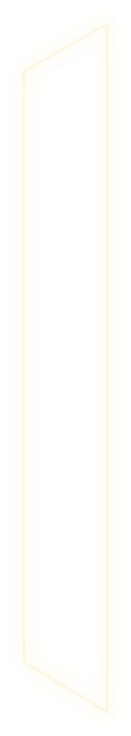
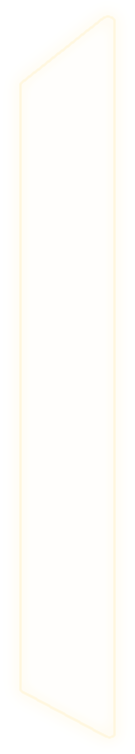
Cell doors 601 and 619: outlines traced on the door frames, top following the black frame edge

diff --git a/game/outlines.js b/game/outlines.js
@@ -1,2 +1,2 @@
 // Viền sáng ôm theo hình từng đồ vật, tách tự động từ ảnh phòng (GrabCut). Tọa độ góc trên trái theo hệ 1920x1080.
-const OUTLINE = {"hall_0":[261,218],"hall_1":[626,167],"hall_2":[1086,218],"hall_3":[1475,82],"hallOffice_0":[698,148],"desk_0":[172,72],"desk2_0":[53,146],"desk2_1":[1029,484],"office_0":[213,713],"office_1":[544,720],"office_2":[1014,714],"office_3":[1322,714],"office_4":[1073,436],"corner_0":[244,66],"corner_1":[969,83],"corner_2":[1139,589],"hallWater_0":[1188,628],"hallKPI_0":[6,62],"hallKPI_1":[840,52],"boss_0":[29,306],"boss_1":[1318,597],"bossRight_0":[700,39],"cellDoor_0":[420,142],"cellDoor_1":[1379,275],"cells_0":[959,98],"cells_1":[737,358],"cells_2":[608,457],"cells_3":[320,523],"hall_4":[1228,166]};
+const OUTLINE = {"hall_0":[261,218],"hall_1":[626,167],"hall_2":[1086,218],"hall_3":[1475,82],"hallOffice_0":[698,148],"desk_0":[172,72],"desk2_0":[53,146],"desk2_1":[1029,484],"office_0":[213,713],"office_1":[544,720],"office_2":[1014,714],"office_3":[1322,714],"office_4":[1073,436],"corner_0":[244,66],"corner_1":[969,83],"corner_2":[1139,589],"hallWater_0":[1188,628],"hallKPI_0":[6,62],"hallKPI_1":[840,52],"boss_0":[29,306],"boss_1":[1318,597],"bossRight_0":[700,39],"cellDoor_0":[420,142],"cellDoor_1":[1379,275],"cells_0":[959,98],"cells_1":[736,344],"cells_2":[609,452],"cells_3":[320,523],"hall_4":[1228,166]};

diff --git a/game/game.js b/game/game.js
@@ -9,7 +9,7 @@ const cv = $('#cv'), ctx = cv.getContext('2d');
 const stage = $('#stage');
 const clamp = (v, a, b) => Math.max(a, Math.min(b, v));
 // ASSET_V: đổi mỗi khi thay ảnh/âm thanh trùng tên, để trình duyệt không dùng lại bản cũ trong cache
-const ASSET_V = '20261110d';
+const ASSET_V = '20261110e';
 const A = p => 'assets/v2/' + p + '?v=' + ASSET_V;
 
 /* ---------------- Stage scaling (sharp on Retina) ---------------- */
@@ -217,8 +217,8 @@ const VIEWS = {
   ], draw: drawCellBars },
   cells: { nav: [AR(493, 779, -120, () => cellAct(603), 'Buồng cuối dãy (603)'), BK('cellDoor')], spots: [
     { x: 985, y: 125, w: 218, h: 955, label: 'Phòng 602', act: () => cellAct(602) },
-    { x: 761, y: 382, w: 83, h: 690, label: 'Phòng 619', act: () => cellAct(619) },
-    { x: 630, y: 450, w: 50, h: 480, label: 'Phòng 601', act: () => cellAct(601) },
+    { x: 760, y: 364, w: 86, h: 714, label: 'Phòng 619', act: () => cellAct(619) },
+    { x: 633, y: 472, w: 50, h: 453, label: 'Phòng 601', act: () => cellAct(601) },
     { x: 340, y: 510, w: 145, h: 390, label: 'Buồng cuối dãy (603)', act: () => cellAct(603) },
   ] },
 };

diff --git a/game/style.css b/game/style.css
@@ -20,9 +20,9 @@ button{font-family:inherit;cursor:pointer}
 /* 3 tấm bảng gỗ nhóm vẽ (source/icon): tiêu đề, 7 ô "?" và thanh nghi ngờ có sẵn trong hình (925x450) */
 #obj,#inv{position:absolute;aspect-ratio:925/450;background:center/100% 100% no-repeat;filter:drop-shadow(5px 6px 0 rgba(0,0,0,.45))}
 #obj .lbl{display:none}
-#obj{left:10px;top:2px;width:330px;background-image:url(assets/v2/ui/hud_obj.png?v=20261110d)}
+#obj{left:10px;top:2px;width:330px;background-image:url(assets/v2/ui/hud_obj.png?v=20261110e)}
 #obj-text{position:absolute;left:15%;right:8%;top:44%;bottom:10%;font-weight:700;font-size:15px;line-height:1.2;color:#2b1d0e;display:flex;align-items:center}
-#inv{left:795px;top:2px;width:330px;background-image:url(assets/v2/ui/hud_inv.png?v=20261110d)}
+#inv{left:795px;top:2px;width:330px;background-image:url(assets/v2/ui/hud_inv.png?v=20261110e)}
 .slot{position:absolute;top:52.44%;width:9.51%;height:19.56%;display:flex;align-items:center;justify-content:center}
 .slot.full{background:#f6e7c1;border:2px solid #4a2c12;border-radius:3px;overflow:hidden}
 .slot img{max-width:88%;max-height:88%;object-fit:contain}

diff --git a/game/index.html b/game/index.html
@@ -25,7 +25,7 @@
 <link rel="preconnect" href="https://fonts.googleapis.com">
 <link rel="preconnect" href="https://fonts.gstatic.com" crossorigin>
 <link href="https://fonts.googleapis.com/css2?family=Be+Vietnam+Pro:wght@400;600;800&family=VT323&display=swap" rel="stylesheet">
-<link rel="stylesheet" href="style.css?v=20261110d">
+<link rel="stylesheet" href="style.css?v=20261110e">
 </head>
 <body>
 <div id="stage">
@@ -61,7 +61,7 @@
   <div id="fade"></div>
   <div id="loading"><div>ĐANG TẢI</div><div id="load-bar"><div id="load-fill"></div></div></div>
 </div>
-<script src="outlines.js?v=20261110d"></script>
-<script src="game.js?v=20261110d"></script>
+<script src="outlines.js?v=20261110e"></script>
+<script src="game.js?v=20261110e"></script>
 </body>
 </html>
